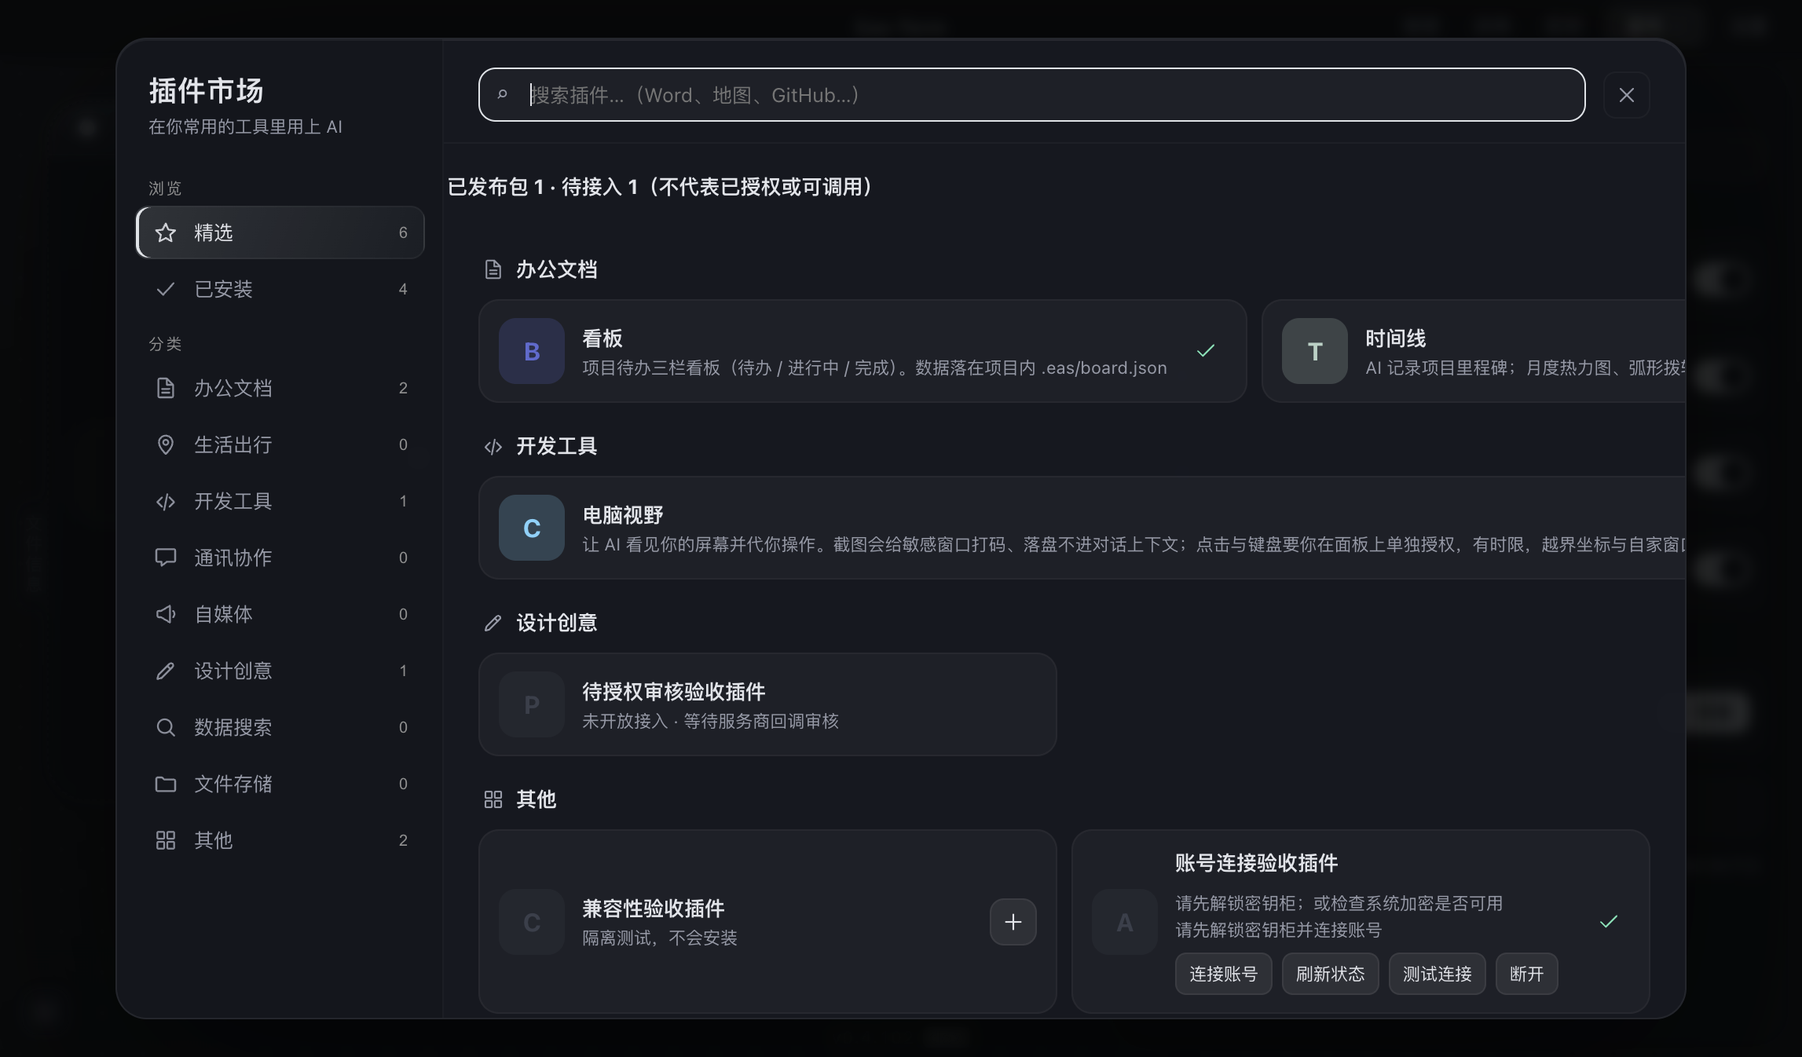
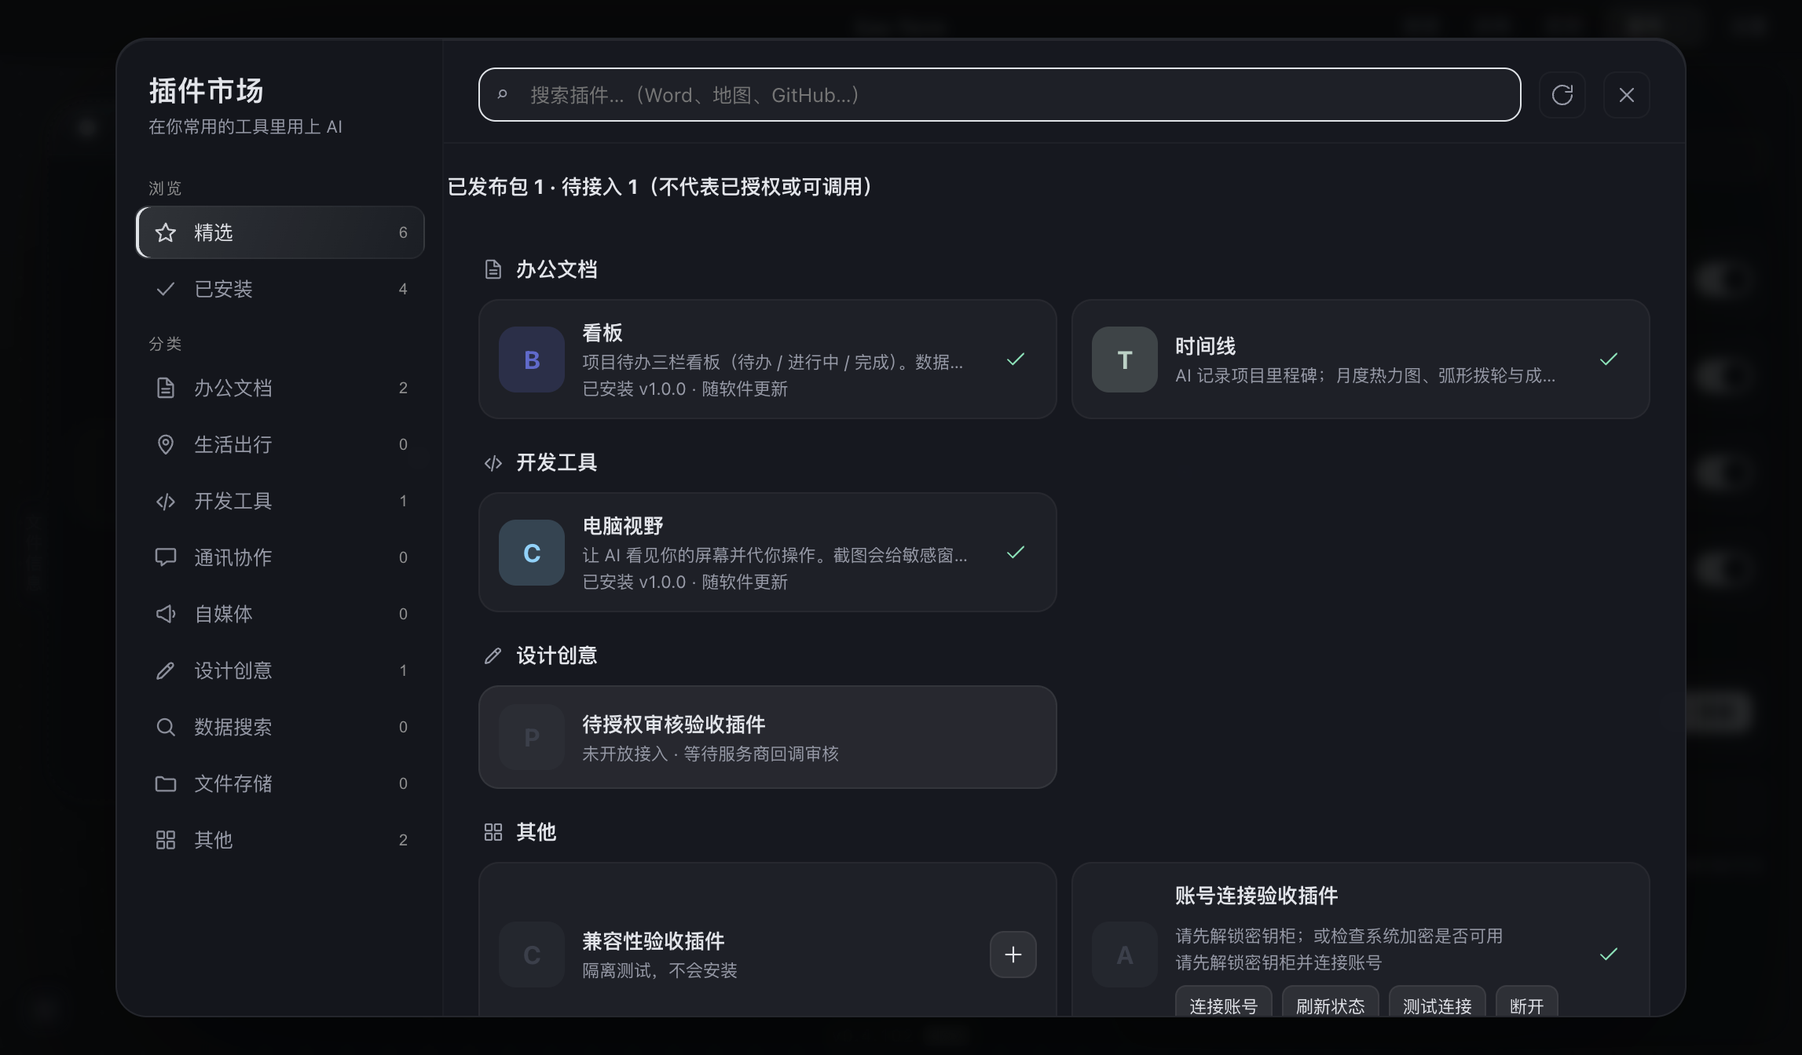
feat(plugins): expose refresh and version updates with isolated UI verification

diff --git a/src/renderer/src/features/canvas/PluginMarketModal.tsx b/src/renderer/src/features/canvas/PluginMarketModal.tsx
@@ -1,3 +1,4 @@
+import { canUpdatePlugin } from '../../../../shared/pluginUpdate'
 // 完整插件市场弹窗（「更多 › 插件」页点「查看完整插件市场」进来）。
 // 左边智能分类、顶部搜索、卡片用真实品牌 logo + 名字 + 简介 + 安装。设计稿
 // docs/prototype/2026-09-15-plugin-market-full.html。数据来自 registry（可装）+ 已装列表。
@@ -31,7 +32,7 @@ type Item = {
   cli?: string
   plugin?: PluginInfo
 }
-type Pending = { token: string; name: string; displayName: string; version: string; size: number; permissions: string[] }
+type Pending = { token: string; name: string; displayName: string; version: string; size: number; permissions: string[]; installed: boolean }
 
 export function PluginMarketModal({ onClose, onChanged }: { onClose: () => void; onChanged: () => void }): JSX.Element {
   const [plugins, setPlugins] = useState<PluginInfo[] | null>(null)
@@ -40,6 +41,7 @@ export function PluginMarketModal({ onClose, onChanged }: { onClose: () => void;
   const [q, setQ] = useState('')
   const [busy, setBusy] = useState<string | null>(null)
   const [confirm, setConfirm] = useState<Pending | null>(null)
+  const [refreshing, setRefreshing] = useState(false)
   const [err, setErr] = useState<string | null>(null)
 
   const reload = (): Promise<void> =>
@@ -47,12 +49,19 @@ export function PluginMarketModal({ onClose, onChanged }: { onClose: () => void;
       .list()
       .then((l) => setPlugins(l))
       .catch(() => setPlugins([]))
+  const refreshRegistry = async (): Promise<void> => {
+    setRefreshing(true)
+    try {
+      await reload()
+      const r = await window.api.plugins.registry()
+      setReg(r.ok ? { entries:r.entries, unavailable:r.unavailable??[], stale:r.stale } : 'error')
+    } catch { setReg('error') }
+    finally { setRefreshing(false) }
+  }
   useEffect(() => {
-    void reload()
-    window.api.plugins
-      .registry()
-      .then((r) => setReg(r.ok ? { entries: r.entries, unavailable:r.unavailable??[],stale:r.stale } : 'error'))
-      .catch(() => setReg('error'))
+    void refreshRegistry()
+  }, [])
+  useEffect(() => {
     const onKey = (e: KeyboardEvent): void => {
       if (e.key === 'Escape') onClose()
     }
@@ -81,12 +90,12 @@ export function PluginMarketModal({ onClose, onChanged }: { onClose: () => void;
       }
     }
     for (const p of plugins ?? []) {
-      if (map.has(p.name)) {
+      if (p.cli === 'eas' && map.has(p.name)) {
         map.get(p.name)!.installed = true
         map.get(p.name)!.plugin = p
         continue
       }
-      map.set(p.name, {
+      map.set(p.cli === 'eas' ? p.name : p.id, {
         name: p.name,
         displayName: p.displayName,
         description: p.description,
@@ -138,8 +147,9 @@ export function PluginMarketModal({ onClose, onChanged }: { onClose: () => void;
 
   const card = (it: Item): JSX.Element => {
     const working = busy === it.name
+    const update = !!it.plugin && !!it.reg && canUpdatePlugin(it.plugin,it.reg.version)
     return (
-      <div key={it.name} className="pm-card">
+      <div key={it.plugin?.id ?? it.name} className="pm-card">
         <PluginLogo name={it.name} brandColor={it.brandColor} />
         <div className="pm-cb">
           <div className="pm-ct">
@@ -147,20 +157,21 @@ export function PluginMarketModal({ onClose, onChanged }: { onClose: () => void;
             {it.cli && it.cli !== 'eas' && <span className="pm-src">{it.cli === 'claude' ? 'Claude' : 'Codex'}</span>}
           </div>
           {it.description && <div className="pm-cd">{it.description}</div>}
+          {it.plugin?.version && <div className="pm-cd">已安装 v{it.plugin.version}{update ? ` · 可更新至 v${it.reg!.version}` : ''}{it.plugin.builtin ? ' · 随软件更新' : ''}</div>}
           {it.reason && <div className="pm-cd" title={it.reason}>未开放接入 · {it.reason}</div>}
           {it.plugin?.remote?.auth==='oauth'&&<PluginAccountControls id={it.plugin.id} enabled={it.plugin.enabled!==false}/>}
         </div>
         <div className="pm-cact">
-          {it.installed ? (
-            <span className="pm-done" title="已安装">
-              <CheckIcon size={15} />
-            </span>
-          ) : working ? (
-            <span className="pm-spin">
-              <RefreshIcon size={13} />
-            </span>
+          {working ? (
+            <span className="pm-spin"><RefreshIcon size={13} /></span>
+          ) : update ? (
+            <button className="pm-add" title={`更新到 ${it.reg!.version}`} aria-label={`更新${it.displayName}到${it.reg!.version}`} disabled={!!busy || !!confirm || refreshing} onClick={() => startInstall(it.name)}>
+              <RefreshIcon size={16} />
+            </button>
+          ) : it.installed ? (
+            <span className="pm-done" title="已安装"><CheckIcon size={15} /></span>
           ) : it.reg ? (
-            <button className="pm-add" title="接入" onClick={() => startInstall(it.name)}>
+            <button className="pm-add" title="接入" disabled={!!busy || !!confirm || refreshing} onClick={() => startInstall(it.name)}>
               <PlusIcon size={16} />
             </button>
           ) : null}
@@ -260,6 +271,9 @@ export function PluginMarketModal({ onClose, onChanged }: { onClose: () => void;
               <span className="pm-mag">⌕</span>
               <input value={q} onChange={(e) => setQ(e.target.value)} placeholder="搜索插件…（Word、地图、GitHub…）" autoFocus />
             </div>
+            <button className="pm-close" title="刷新目录" aria-label="刷新目录" disabled={refreshing || !!busy || !!confirm} onClick={() => void refreshRegistry()}>
+              <RefreshIcon size={16} />
+            </button>
             <button className="pm-close" title="关闭" onClick={onClose}>
               <CloseIcon size={16} />
             </button>
@@ -267,7 +281,7 @@ export function PluginMarketModal({ onClose, onChanged }: { onClose: () => void;
           {err && <div className="pm-err">{err}</div>}
           {reg && reg !== 'error' && reg.stale && <div className="pm-err">目录离线，正在显示缓存；条目状态可能已过期。</div>}
           {reg && reg !== 'error' && <div className="pm-sech">已发布包 {reg.entries.length} · 待接入 {reg.unavailable.length}（不代表已授权或可调用）</div>}
-          {reg === 'error' && <div className="pm-err">拉不到插件目录，检查网络后重开</div>}
+          {reg === 'error' && <div className="pm-err">拉不到插件目录，检查网络后点击刷新目录</div>}
           <div className="pm-body">{body}</div>
         </div>
       </div>
@@ -276,7 +290,7 @@ export function PluginMarketModal({ onClose, onChanged }: { onClose: () => void;
       {confirm && (
         <div className="cpk-modal-back" style={{ zIndex: 1600 }} onMouseDown={(e) => e.stopPropagation()}>
           <div className="cpk-modal">
-            <div className="cpk-modal-title">安装「{confirm.displayName}」</div>
+            <div className="cpk-modal-title">{confirm.installed ? '更新' : '安装'}「{confirm.displayName}」</div>
             <div className="cpk-modal-sub">
               v{confirm.version} · {fmtSize(confirm.size)}
             </div>
@@ -297,7 +311,7 @@ export function PluginMarketModal({ onClose, onChanged }: { onClose: () => void;
                 取消
               </button>
               <button className="cpk-btn primary" onClick={commitInstall}>
-                确认安装
+                {confirm.installed ? '确认更新' : '确认安装'}
               </button>
             </div>
           </div>

diff --git a/docs/verification/plugin-marketplace/progress.html b/docs/verification/plugin-marketplace/progress.html
@@ -1,16 +1,16 @@
-<!doctype html><html lang="zh-CN"><head><meta charset="utf-8"><meta name="viewport" content="width=device-width,initial-scale=1"><title>插件接入 · 实时进度</title><style>*{box-sizing:border-box}body{margin:0;background:#0a0a0a;color:#f5f5f5;font:15px/1.75 -apple-system,BlinkMacSystemFont,"PingFang SC",sans-serif}main{max-width:1080px;padding:28px;margin:auto}h1{font-size:29px;letter-spacing:-.02em;margin:8px 0}h2{font-size:12px;color:#a3a3a3;letter-spacing:.15em}section{background:rgba(23,23,23,.5);border:1px solid #262626;border-radius:14px;padding:20px;margin:18px 0}.muted{color:#a3a3a3}.warn{border-left:2px solid #fbbf24}.good{color:#6ee7b7}table{width:100%;border-collapse:collapse;font-size:13.5px}td{padding:9px;border-bottom:1px solid #262626}pre{background:#111;white-space:pre-wrap;overflow-wrap:anywhere;padding:16px;border-radius:12px;font-size:12px}.tw{overflow-x:auto}</style></head><body><main><h2>LIVE TASK STATUS / 本地轮询节点</h2><h1>插件市场统一接入</h1><p class="muted">按原 Demo 32 项接入 · 未上线 · 不修改正式应用</p><section class="warn"><b>通过 · 双目录安全发布：全量检查与构建</b><p>本次任务耗时 60 秒</p><p class="muted">最后采样：2026-09-18T06:58:55-07:00</p><p id="stale"></p></section><section><h2>DELIVERY / 交付阶段</h2><div class="tw"><table><tr><td>清单与设计</td><td class="good">已确认 · 32 项</td></tr><tr><td>兼容性门禁</td><td>代码已接线 · 不兼容拒绝已隔离 UI 验证</td></tr><tr><td>打包与安装边界</td><td>清单确认后防变更、普通更新失败回退已测试</td></tr><tr><td>远程 MCP / 统一授权</td><td>远程宿主、授权控件、连接测试已接线；真实账号端到端未验证</td></tr><tr><td>32 项插件接入</td><td>未完成；不以目录卡片计完成数</td></tr><tr><td>市场独立更新验收</td><td>未完成</td></tr></table></div></section><section><h2>PROCESS / 真实任务输出</h2><pre>../../out/renderer/assets/index-hFRyRqs9.js                 42.21 kB
-../../out/renderer/assets/sql-BSrOzCRI.js                   42.67 kB
-../../out/renderer/assets/index-BYLkjfrg.js                 43.89 kB
-../../out/renderer/assets/index-BYo3XAZ_.js                 43.93 kB
-../../out/renderer/assets/index-Br4n1TGR.js                 54.94 kB
-../../out/renderer/assets/index-BCcdysc3.js                 55.83 kB
-../../out/renderer/assets/index-4dMT39mC.js                 73.54 kB
-../../out/renderer/assets/index-BJW1uSVz.js                 86.49 kB
-../../out/renderer/assets/index-C5-Lgy4I.js                 97.45 kB
-../../out/renderer/assets/index-c4EPLiDZ.js                102.86 kB
-../../out/renderer/assets/index-DIxisIUf.js                106.82 kB
-../../out/renderer/assets/index-CqDpSFec.js                228.28 kB
-../../out/renderer/assets/DictView-C1Md1OF2.js             656.69 kB
-../../out/renderer/assets/dictionary-bundle-ZdkIBe8W.js  1,489.45 kB
-../../out/renderer/assets/index-a3U8ItuQ.js              4,413.02 kB
-✓ built in 3.12s</pre></section><p class="muted">运行时每 5 秒采样并刷新；结束后显示真实退出结果。页面轮询不会启动任务，也不会让 AI 在会话结束后自行继续开发。</p><p>反馈指令：<code>汇报当前阻碍</code></p></main><script>const age=(Date.now()-Date.parse('2026-09-18T06:58:55-07:00'))/1000;if(age>30&&false)document.getElementById('stale').textContent='采样已超过 30 秒未更新，任务状态待核实，不能据此认定仍在运行。';</script></body></html>
+<!doctype html><html lang="zh-CN"><head><meta charset="utf-8"><meta name="viewport" content="width=device-width,initial-scale=1"><title>插件接入 · 实时进度</title><style>*{box-sizing:border-box}body{margin:0;background:#0a0a0a;color:#f5f5f5;font:15px/1.75 -apple-system,BlinkMacSystemFont,"PingFang SC",sans-serif}main{max-width:1080px;padding:28px;margin:auto}h1{font-size:29px;letter-spacing:-.02em;margin:8px 0}h2{font-size:12px;color:#a3a3a3;letter-spacing:.15em}section{background:rgba(23,23,23,.5);border:1px solid #262626;border-radius:14px;padding:20px;margin:18px 0}.muted{color:#a3a3a3}.warn{border-left:2px solid #fbbf24}.good{color:#6ee7b7}table{width:100%;border-collapse:collapse;font-size:13.5px}td{padding:9px;border-bottom:1px solid #262626}pre{background:#111;white-space:pre-wrap;overflow-wrap:anywhere;padding:16px;border-radius:12px;font-size:12px}.tw{overflow-x:auto}</style></head><body><main><h2>LIVE TASK STATUS / 本地轮询节点</h2><h1>插件市场统一接入</h1><p class="muted">按原 Demo 32 项接入 · 未上线 · 不修改正式应用</p><section class="warn"><b>通过 · 市场更新UI与卡片边界：最终构建验收</b><p>本次任务耗时 70 秒</p><p class="muted">最后采样：2026-09-18T07:14:05-07:00</p><p id="stale"></p></section><section><h2>DELIVERY / 交付阶段</h2><div class="tw"><table><tr><td>清单与设计</td><td class="good">已确认 · 32 项</td></tr><tr><td>兼容性门禁</td><td>代码已接线 · 不兼容拒绝已隔离 UI 验证</td></tr><tr><td>打包与安装边界</td><td>清单确认后防变更、普通更新失败回退已测试</td></tr><tr><td>远程 MCP / 统一授权</td><td>远程宿主、授权控件、连接测试已接线；真实账号端到端未验证</td></tr><tr><td>32 项插件接入</td><td>未完成；不以目录卡片计完成数</td></tr><tr><td>市场独立更新验收</td><td>未完成</td></tr></table></div></section><section><h2>PROCESS / 真实任务输出</h2><pre>    &quot;离线刷新展示缓存提示而不是空市场&quot;,
+    &quot;全程同一应用PID，无宿主重启&quot;
+  ]
+}
+{
+  &quot;passed&quot;: true,
+  &quot;checks&quot;: [
+    &quot;市场展示隔离目录条目&quot;,
+    &quot;OAuth账号控制显示连接/刷新/测试/断开与真实锁定状态&quot;,
+    &quot;实际IPC只返回状态，不返回凭证&quot;,
+    &quot;未授权测试连接明确拒绝，不打开登录或发出服务调用&quot;,
+    &quot;v2待接入条目展示原因且无安装按钮&quot;,
+    &quot;点击接入后显示明确宿主版本错误&quot;,
+    &quot;请求仅为目录，未下载插件包&quot;
+  ]
+}</pre></section><p class="muted">运行时每 5 秒采样并刷新；结束后显示真实退出结果。页面轮询不会启动任务，也不会让 AI 在会话结束后自行继续开发。</p><p>反馈指令：<code>汇报当前阻碍</code></p></main><script>const age=(Date.now()-Date.parse('2026-09-18T07:14:05-07:00'))/1000;if(age>30&&false)document.getElementById('stale').textContent='采样已超过 30 秒未更新，任务状态待核实，不能据此认定仍在运行。';</script></body></html>

diff --git a/src/shared/pluginUpdate.ts b/src/shared/pluginUpdate.ts
@@ -1,0 +1,12 @@
+/** Marketplace currently publishes numeric major.minor.patch only. Unknown or
+ * prerelease versions never trigger an automatic downgrade/replacement offer. */
+export function pluginVersion(value:unknown):string|undefined {
+ if(typeof value!=='string'||!/^\d+\.\d+\.\d+$/.test(value)||!value.split('.').map(Number).every(Number.isSafeInteger))return
+ return value
+}
+export function canUpdatePlugin(plugin:{cli:string;version?:string;builtin?:boolean},next:string):boolean {
+ if(plugin.cli!=='eas'||plugin.builtin||!pluginVersion(plugin.version)||!pluginVersion(next))return false
+ const current=plugin.version!.split('.').map(Number),candidate=next.split('.').map(Number)
+ for(let i=0;i<3;i++){if(candidate[i]!==current[i])return candidate[i]>current[i]}
+ return false
+}

diff --git a/src/shared/pluginUpdate.test.ts b/src/shared/pluginUpdate.test.ts
@@ -1,0 +1,10 @@
+import {test} from 'node:test'
+import assert from 'node:assert/strict'
+import {canUpdatePlugin} from './pluginUpdate.ts'
+test('updates compare numeric versions and exclude builtins, other ecosystems and unknown versions',()=>{
+ for(const [current,next,want] of [['1.9.0','1.10.0',true],['2.0.0','1.99.0',false],['1.0.0','1.0.0',false],['bad','2.0.0',false],[undefined,'2.0.0',false]] as const){
+  assert.equal(canUpdatePlugin({cli:'eas',version:current},next),want)
+ }
+ assert.equal(canUpdatePlugin({cli:'codex',version:'1.0.0'},'2.0.0'),false)
+ assert.equal(canUpdatePlugin({cli:'eas',builtin:true,version:'1.0.0'},'2.0.0'),false)
+})

diff --git a/src/main/pluginManifest.test.ts b/src/main/pluginManifest.test.ts
@@ -106,3 +106,11 @@ test('OAuth public-client descriptor preserves only approved fixed endpoints and
  assert.equal(parseManifest({...raw,requirements:{capabilities:['mcp.remote']}},DIR).ok,false)
  assert.equal(parseManifest({...raw,mcp:{...raw.mcp,auth:'none'}},DIR).ok,false)
 })
+
+test('installed package version reaches PluginInfo for update comparison; unknown versions stay unknown',()=>{
+ for(const [version,want] of [['1.2.3','1.2.3'],['latest',undefined],[undefined,undefined]] as const){
+  const result=parseManifest({...good(),version},DIR)
+  assert.ok(result.ok)
+  if(result.ok)assert.equal(result.info.version,want)
+ }
+})

diff --git a/src/main/pluginManifest.ts b/src/main/pluginManifest.ts
@@ -1,3 +1,4 @@
+import { pluginVersion } from '../shared/pluginUpdate.ts'
 // 自家插件清单 `plugin.json` → PluginInfo。**纯函数，零 electron。**
 // 设计稿 §M。字段名借 Codex 的 interface 块（displayName / brandColor / composerIcon /
 // defaultPrompt），现有 picker UI 一行不改就能显示。
@@ -164,6 +165,7 @@ export function parseManifest(
     id: `eas:${name}`,
     cli: 'eas',
     name: name!,
+    version: pluginVersion(m.version),
     displayName: str(m.displayName) ?? name!,
     description: str(m.description),
     category: str(m.category),

diff --git a/src/shared/types.ts b/src/shared/types.ts
@@ -756,6 +756,8 @@ export interface IslandAction {
  *  Codex 的元数据在 `.codex-plugin/plugin.json` 的 `interface` 块里（很全），
  *  Claude 的只有 name/description（很薄），缺的字段一律留空由 UI 兜底。 */
 export interface PluginInfo {
+  /** Valid installed package version; absent for legacy/unknown manifests. */
+  version?: string
   /** `<cli>:<name>`，唯一。用于 UI key 和「这次会话带哪个插件」的引用 */
   id: string
   /** 属于哪个 CLI —— **决定用哪个 adapter 起会话**，不能猜。

diff --git a/src/renderer/src/features/canvas/canvas.css b/src/renderer/src/features/canvas/canvas.css
@@ -2901,11 +2901,12 @@
 }
 .pm-grid {
   display: grid;
-  grid-template-columns: 1fr 1fr;
+  grid-template-columns: repeat(2, minmax(0, 1fr));
   gap: 9px;
 }
 .pm-card {
   display: flex;
+  min-width: 0;
   align-items: center;
   gap: 11px;
   padding: 11px 12px;

diff --git a/docs/verification/plugin-marketplace/hot-update/README.md b/docs/verification/plugin-marketplace/hot-update/README.md
@@ -1,0 +1,13 @@
+# 同进程独立更新验收
+
+运行 `npm run build && node scripts/verify-plugin-hot-update.mjs`，仅支持当前 macOS 隔离验证。
+
+范围：实际编译应用、真实预加载 IPC 与市场 UI，点击安装/刷新/更新/权限确认，随后供给损坏更新和离线目录，读取临时插件目录验证版本保持。全程同一应用 PID，更新期间不重建宿主。
+
+隔离边界：单独 userData；OS 沙箱禁止读取/写入真实 CLI 配置及 `.eas` 等凭证目录；清除继承的常见 key/token 环境变量。临时启动适配器将 Node `os.homedir()` 指向临时目录，并只把 fixture 的官方格式包 URL 重定向至本机受控服务器，不改变产品代码或允许列表。保留原生 HOME，避免 macOS/Electron 新 HOME 下的 renderer/CDP 卡顿；这是测试适配，不是正式安装路径变更。
+
+**不覆盖**生产 HTTPS/TLS/CDN、远程账户、实际三 CLI 模型、插件业务工具（fixture server 是惰性测试文件）；损坏包保留证明下载失败不替换旧版，不等于断电崩溃恢复证明。
+
+调试历程：早期 inspector Promise was collected；改变原生 HOME 的多次尝试出现 CDP Runtime.evaluate/Page.captureScreenshot 超时，原 compatibility verifier 对照通过。使用临时启动适配器后，UI 红测明确报“市场提供显式刷新目录入口”，随后实现该入口。成功结果以 result.json 为准，不以旧截图或 failure.json 判定。
+
+最终结果：全量 `npm run check` 3344 项（3326 通过、18 跳过、0 失败），构建通过；本脚本 13 项通过，旧授权/兼容性脚本 7 项通过。截图 `updated.png`、`failed-update.png` 已眼验。`layout-red.json` 是修复前的卡片溢出红测，不是当前结果。上线/真实账户/32项业务连接器仍未验收。

diff --git a/docs/architecture/13-所有权矩阵.md b/docs/architecture/13-所有权矩阵.md
@@ -271,3 +271,5 @@ shared/browserRoutes.json → scripts/build-browser-routes.mjs → docs/browser/
 双目录分发同步：build-plugin-registry → plugin-registry-build → packPlugin({registrySchema:2}) → pluginCatalog/parseManifest；同版本字节变化拒绝，不覆盖旧archive/目录。真实上传后续需同步publish-plugins与宿主v2 URL，目前仍未做，不能只因dist有registry-v2.json就声称线上热更新已切换。
 
 独立发布入口已同步为 `publish-plugins.sh` → `publish-plugins.mjs` → `plugin-publish.mjs`，必须显式 `--publish`。构建与上传共用 `EAS_PLUGIN_BASE_URL/EAS_PLUGIN_OUT_ROOT`；传输目标使用 `EAS_PLUGIN_PUBLISH_HOST/ROOT`。v1 必须等于 v2 无 requirements 子集且引用字节相同；远端目录分别原子晋升，非跨文件事务。目录 URL 的宿主正式切换仍未执行，不能把本地发布演练记成线上完成。
+
+安装版本展示同步：`shared/PluginInfo.version` ↔ `pluginManifest.pluginVersion` ↔ `shared/pluginUpdate.canUpdatePlugin` ↔ `PluginMarketModal` 当前版本/更新按钮/确认更新。refresh 拉真实 registry IPC 并保留 stale 文案；只在 Eas 同身份里合并市场条目，其他 CLI 同名插件不得盖掉自家版本。未识别版本不自动推断更新，内置包仍随宿主发布。
